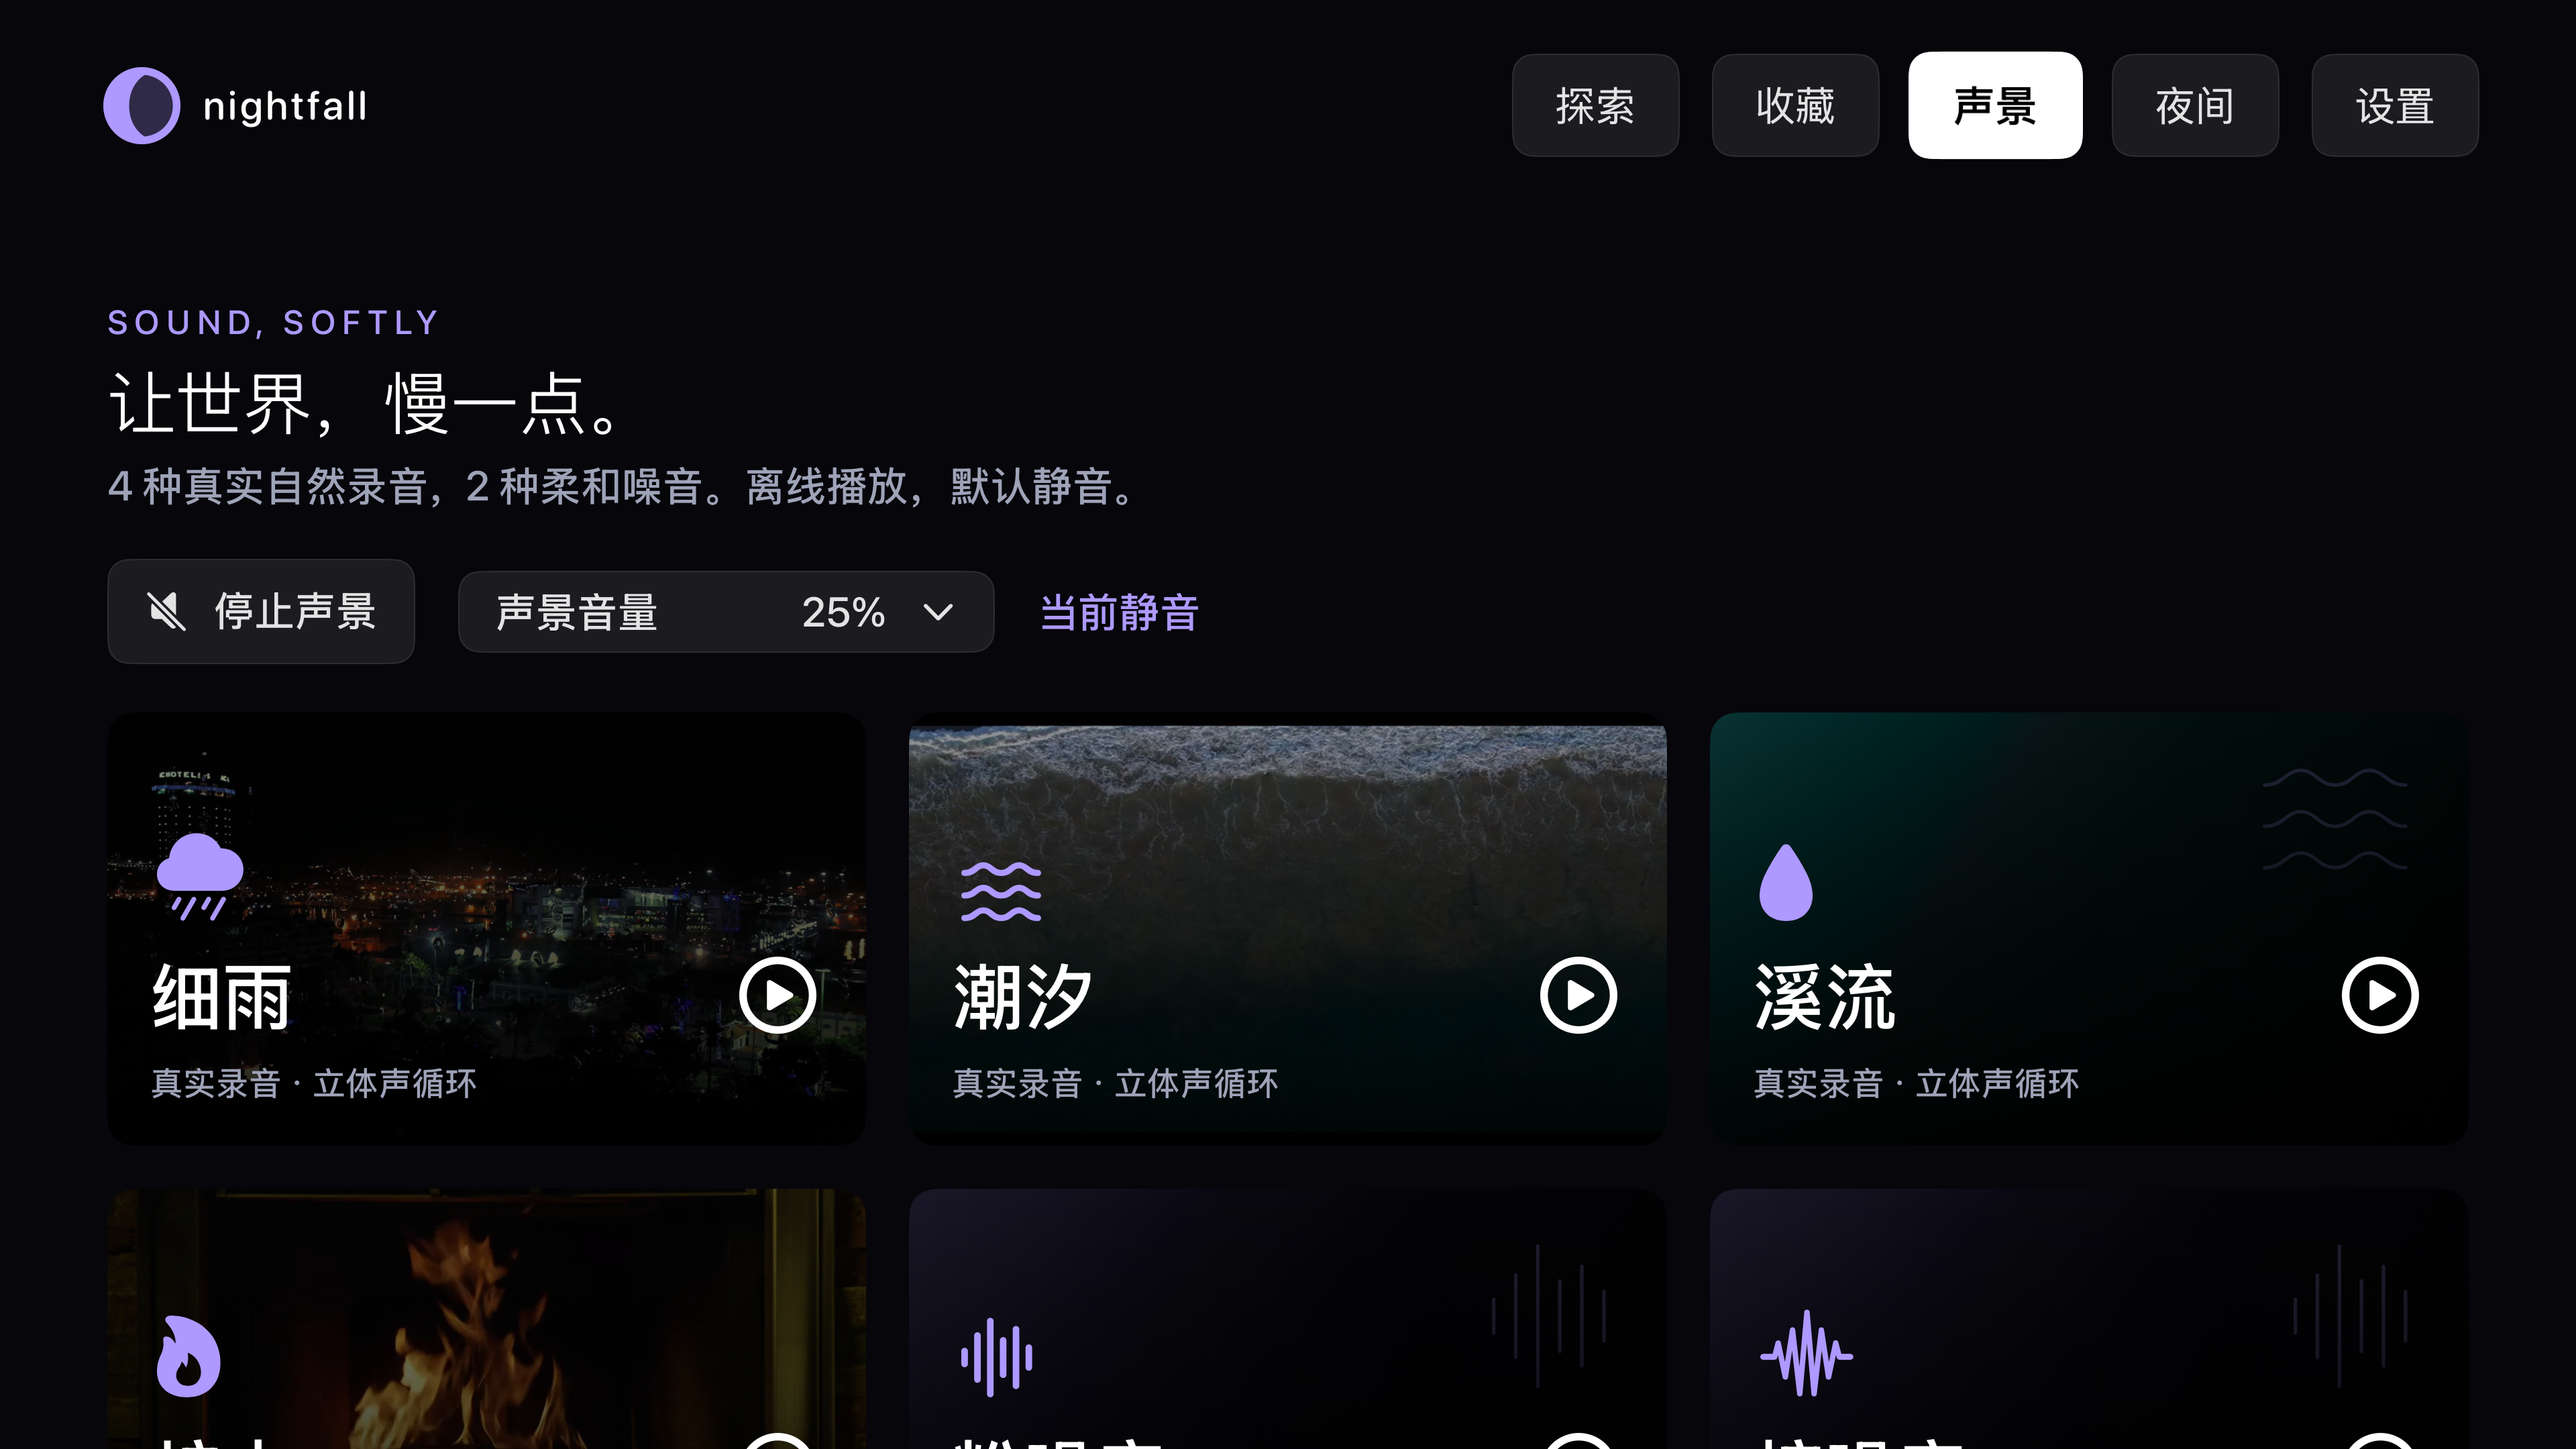
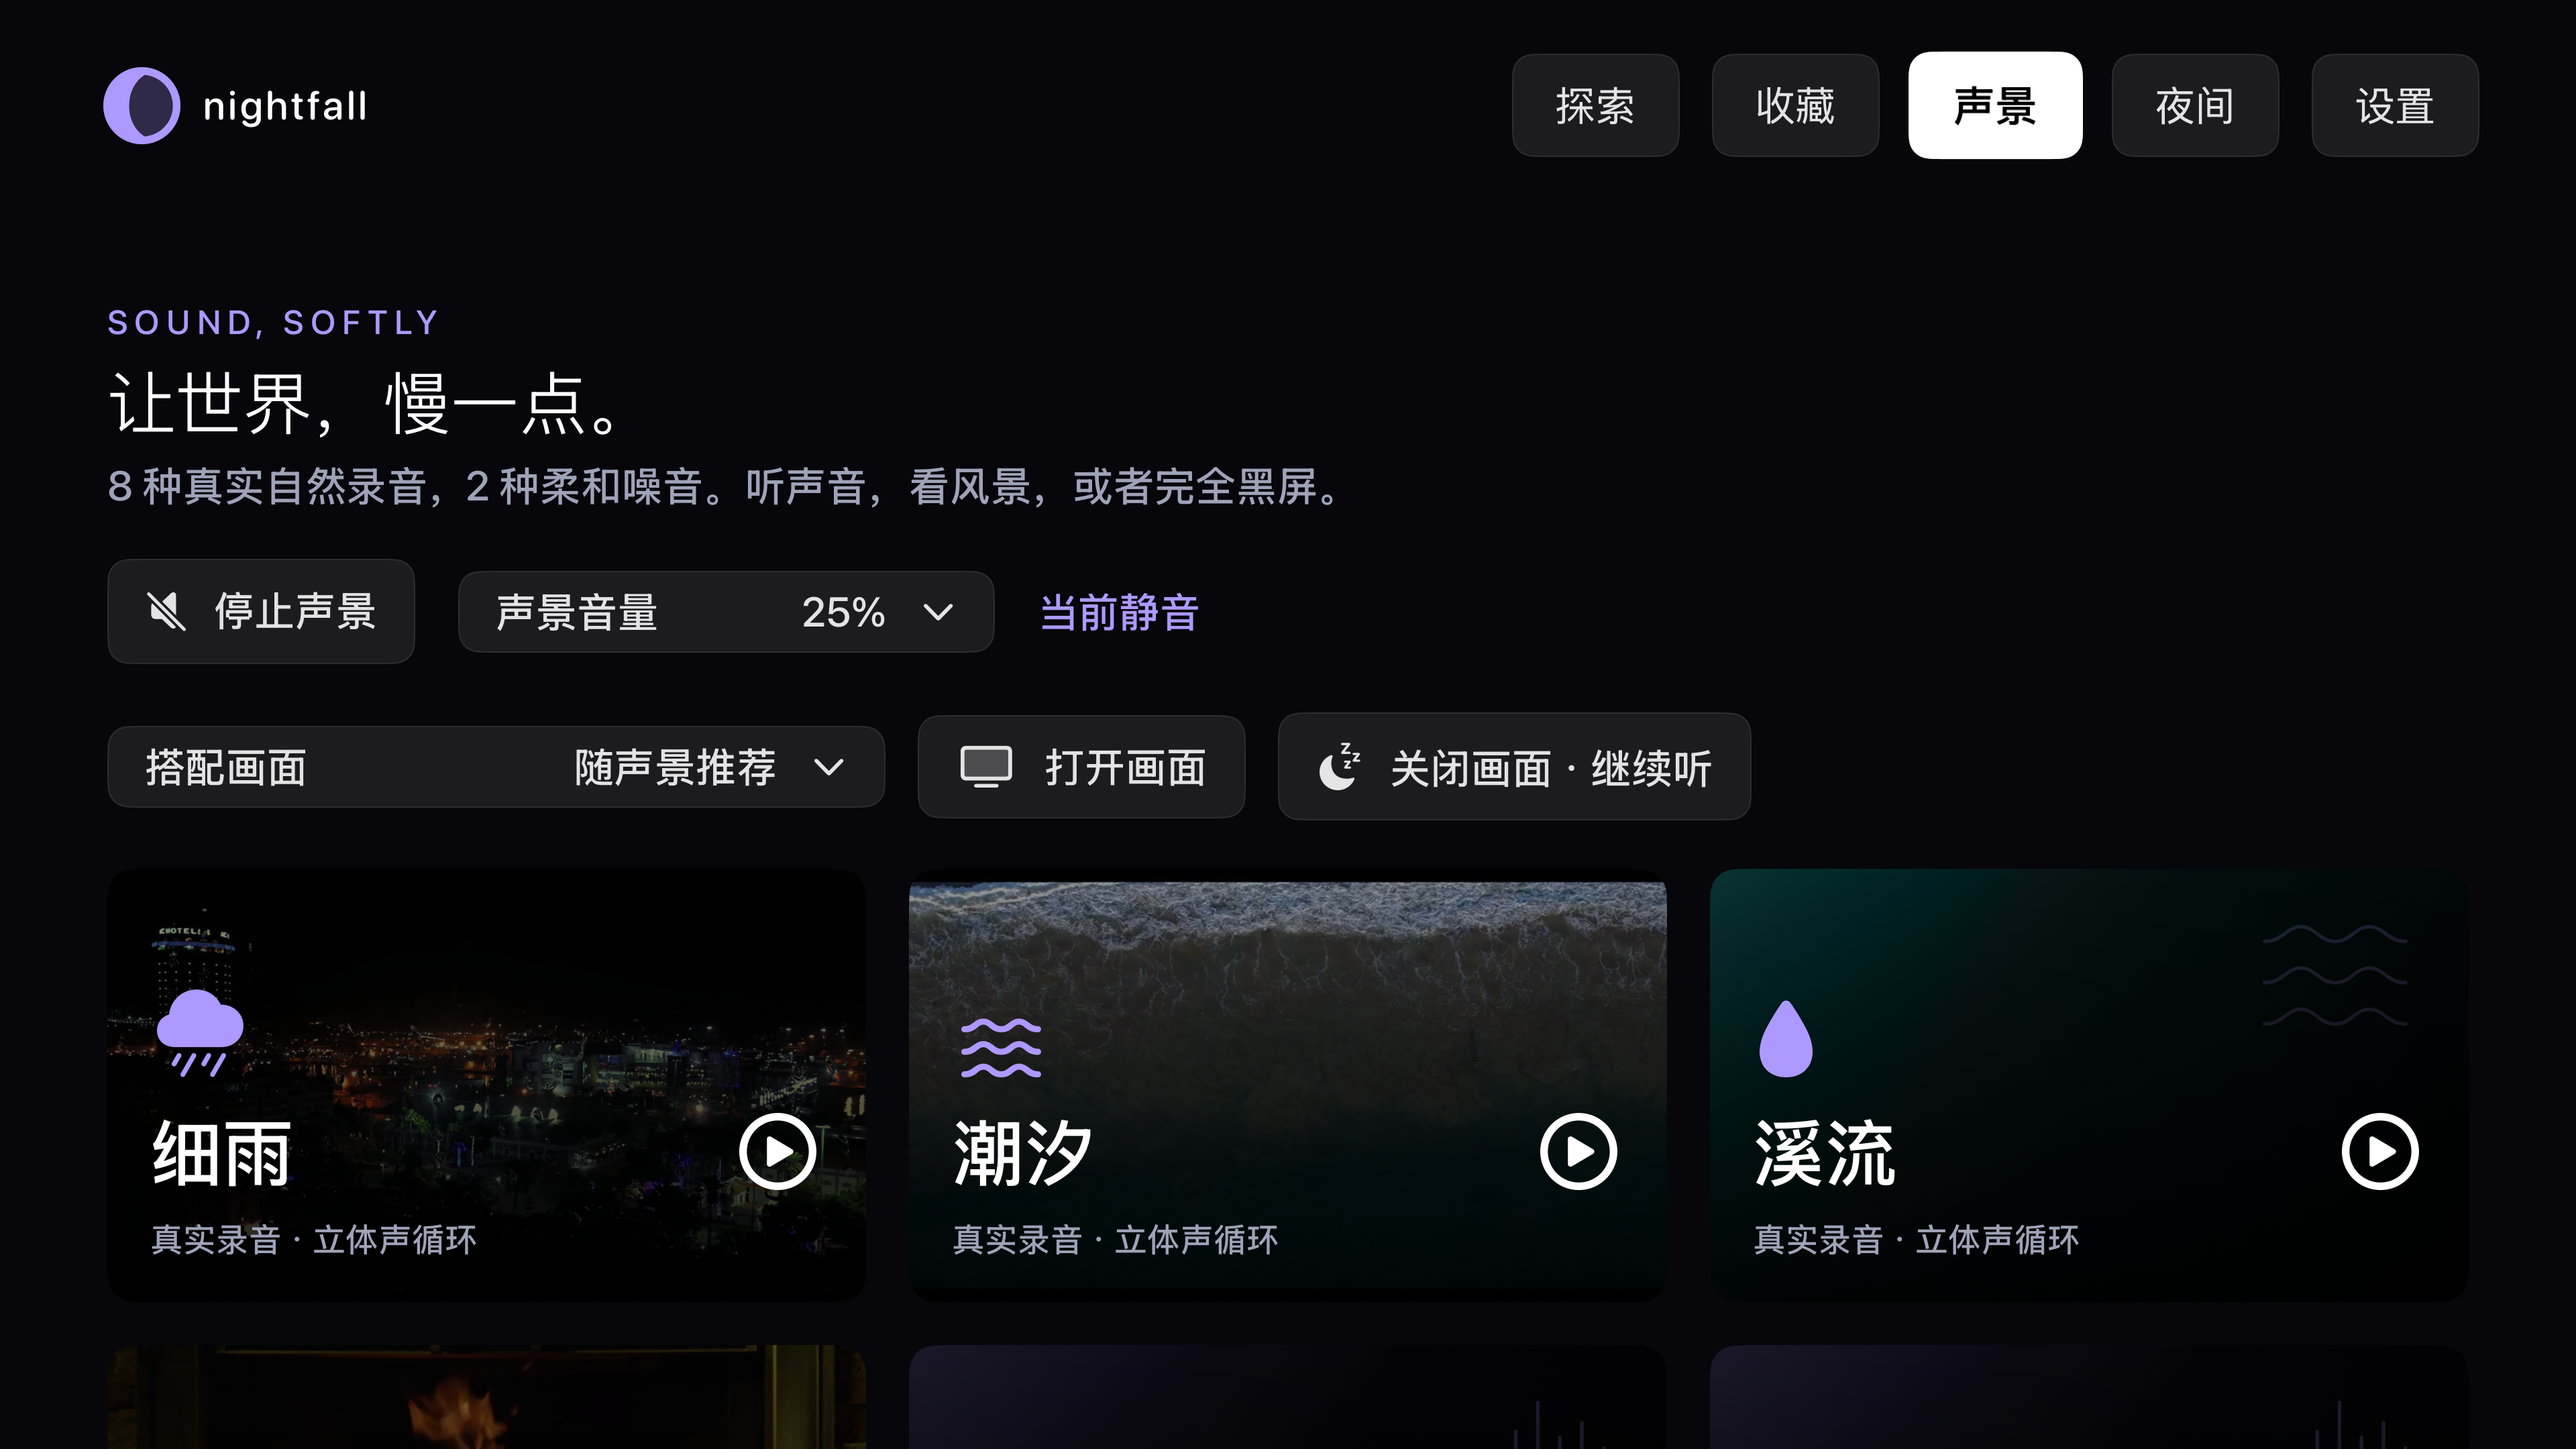
Record 1.1.0 regression, screenshots and TestFlight delivery

diff --git a/docs/回归测试.md b/docs/回归测试.md
@@ -102,3 +102,31 @@
[1 lines of base64/hex data omitted]
 
 后续 TestFlight 网页已记录修复版1.0.2（4）安装到 Apple TV 4K（第三代，tvOS 26.6）。官方反馈 API 当前没有截图或崩溃反馈提交；空反馈不能证明无问题。当前 Mac 仍未配对 Apple TV，真实电视的听感、外部音乐兼容与30分钟播放结果保持待确认。没有把自动化通过、安装或分发状态当作这些验收的证据。
+
+
+## 1.1.0（5）有声屏保、画面开关与内容扩充
+
+新增庭园瀑布、飘雪、云海实拍，现有13种屏保、10个实拍视频。新增鸟鸣、夏夜虫鸣、树叶风声和瀑布真实录音，现有10种离线声景（8项实录、2项有色噪音）。来源、单项 SHA-256、原始格式和许可保存在素材清单与 [MEDIA_LICENSES.md](../MEDIA_LICENSES.md)。所有视频去掉音轨，图像与声音使用独立素材，不声称同期录音或原生4K。
+
+声景页可以自选画面或关闭画面继续听；播放器可换声音、调音量、关闭和恢复画面。单元回归验证画面切换不改变所选声音、播放列表、暂停状态和睡眠截止时间，并检查 AVAudioPlayer 实际仍在播放。直接纯黑启动可按所选声景恢复推荐画面。夜间规则和定时结束后禁止打开画面。新增细雨30分钟、棕噪音60分钟纯黑快捷方案，睡眠最后30秒画面与本应用声音同步淡出。
+
+扩充网格暴露末排仅一张卡片时的焦点死角：从上一排右列向下无法到达末排左列。将每行设为完整横向焦点区域后，以真实遥控器单次向下分别验证飘雪→云海、风声→瀑布，保留首排三列单次向上回归。没有以目标搜索绕行代替这些单次方向断言。
+
+前几次本地运行因磁盘不足出现截图、模拟器启动和结果写入失败，结果未计为通过；一次播放退出后的返回操作过早，测试增加等待详情页呈现后再按返回。已清理本任务的可再生下载、旧构建和重复测试附件，旧结果保留摘要与发布记录；最终完整结果包仍保留。
+
+最终应用源码提交 `fbfd065203a9099f19e9e2e6612ba9d11674927b`：
+
+| 验证 | 实际结果 |
+|---|---|
+| 本地完整回归 | Xcode26.5、tvOS26.5、Apple TV4K第三代模拟器，18单元＋14UI，**32/32通过，0失败、0跳过** |
+| 新功能专项 | 有声启动／睡前方案、自配画面／纯黑恢复／换声音、10项声景／首排向上、末排单次向下，**4/4通过** |
+| GitHub独立完整回归 | Xcode16.4、tvOS26.1，**32/32通过，0失败、0跳过**；[运行记录](https://github.com/ZanwingMak/NightfallTV/actions/runs/38204028253) |
+| 音频 | 全部10项实际解码，立体声、44.1kHz ALAC；响度、直流、峰值余量与循环边界检查通过 |
+| 打包一致性 | 10个静音实拍视频、10个ALAC音频，与仓库清单逐项SHA-256一致，没有旧WAV |
+| 发行 | Release归档、发行签名、IPA导出、Apple校验与上传通过 |
+
[1 lines of base64/hex data omitted]
+
+人工通过 Simulator 方向键复核新增声景卡片、自选海浪画面搭配鸟鸣、关闭为纯黑及恢复原海浪。实际截图见 [声景控制](screens/sound-controls.png)、[新增声景](screens/new-soundscapes.png)、[有画面控制](screens/sound-picture.png)、[纯黑声景控制](screens/sound-black-controls.png)、[睡前方案](screens/bedtime-routine.png)。自动化附件为3840×2160；人工控制层截图包含模拟器窗口。没有把录音来源核对、音频指标或画面中的播放标识当作主观听感验收。
+
+1.1.0（5）的真机安装、音质、外部音乐兼容、物理黑屏和30分钟播放仍待实际结果。当前 Mac 无已配对 Apple TV，旧1.0.2（4）的安装记录不当作新版安装证据。TestFlight处理及分发状态以 [release-status.json](release-status.json) 的最终查询为准。

diff --git a/README.md b/README.md
@@ -25,11 +25,15 @@ An open-source, native Apple TV screensaver player for a calmer living room and 
 - **你的照片**：最多 30 张 HTTPS 图片直链；内存缓存、下载与解码限制；加载失败保持暗色。
 - **显示偏好**：亮度、速度、漂移时钟、24 小时制、减少动态效果、中文 / English。
 
+| 声景画面开关 | 新增自然录音 |
+|---|---|
+| ![声景控制](docs/screens/sound-controls.png) | ![新声景](docs/screens/new-soundscapes.png) |
+
 ## 使用
 
 在音乐应用里开始播放 → 返回桌面 → 启动 Nightfall TV → 选择屏保，或「一键黑屏」。主动选择声景会与其他应用音频混音，默认没有声音。不同播放器的后台音乐兼容性需要在真实 Apple TV 验证。
 
-维护者的 TestFlight 内部构建为 **1.0.2（4）**。收到邀请的 Apple ID 可在 Apple TV 安装 TestFlight，再接受邀请并安装；目前采用内部测试，不提供公开兑换链接。App Store Connect 已记录修复版 1.0.2（4）安装到 Apple TV 4K（第三代，tvOS 26.6）；听感、音乐兼容和长时间播放真机验收仍待实际结果，详见回归记录。
+维护者的 TestFlight 内部构建为 **1.1.0（5）**，已完成 Apple 处理并加入 Nightfall Internal。收到邀请的 Apple ID 可在 Apple TV 安装 TestFlight，再接受邀请并安装；目前采用内部测试，不提供公开兑换链接。旧1.0.2（4）已有 Apple TV 4K（第三代，tvOS26.6）安装记录；新版安装、听感、音乐兼容和长时间播放真机验收仍待实际结果，详见回归记录。
 
 [Apple 当前 TestFlight 安装指南](https://beta.itunes.apple.com/)要求 Apple TV 运行 tvOS 18 或以上（应用自身最低 tvOS 17）。邮件邀请需在手机或电脑打开取得兑换码，再到电视上的 TestFlight → Redeem 输入代码；详细安装和配对步骤见[回归文档](docs/回归测试.md#testflight-真机验收)。
 
@@ -59,7 +63,7 @@ xcodebuild -project NightfallTV.xcodeproj -scheme NightfallTV \
   CODE_SIGNING_ALLOWED=NO test
 ```
 
-修复版 1.0.2（4）已在 tvOS 26.5 的 Apple TV 4K 模拟器完成 **15 个单元测试 + 11 个 UI 测试，26/26 全部通过**（2026-10-12）；保存实际 3840×2160 截图并人工检查主要界面。[最终提交的云端完整回归](https://github.com/ZanwingMak/NightfallTV/actions/runs/38192272274)也已 **26/26 通过，零失败**（tvOS 26.1）。其中照片网络专项访问本仓库的公开截图，离线执行可追加 `-skip-testing:NightfallTVTests/PersistenceTests/testRemotePhotosAndCache`。
+1.1.0（5）已在 tvOS26.5 的 Apple TV4K 模拟器完成 **18个单元测试＋14个遥控器UI测试，32/32全部通过，0失败、0跳过**（2026-10-12）。[最终应用源码的云端完整回归](https://github.com/ZanwingMak/NightfallTV/actions/runs/38204028253)也已 **32/32通过**（Xcode16.4、tvOS26.1）。测试覆盖自选声景画面、纯黑与恢复、计时不重置、有声屏保、睡前方案及单次方向键跳转，并保存实际界面截图供人工检查。其中照片网络专项访问本仓库的公开截图，离线执行可追加 `-skip-testing:NightfallTVTests/PersistenceTests/testRemotePhotosAndCache`。
 
 如需修改工程配置，安装 XcodeGen 后执行 `xcodegen generate`。实拍视频可用 `python3 scripts/import_media.py` 重新导入（需 FFmpeg，遵守来源网站限流）。自然录音可用 `python3 scripts/import_audio.py` 重新导入，有色噪音可用 `python3 scripts/generate_audio.py` 生成（两者需要 FFmpeg，以及 `python3 -m pip install -r scripts/requirements-audio.txt` 安装的 NumPy）；图标用 `swift scripts/generate_assets.swift` 生成。安装到自己的真机或发布时，请在 Xcode Signing 中替换为自己的 Team 和 Bundle ID；`ExportOptions.plist` 是本项目维护者的发布配置示例，其他开发者需替换对应值。
 
